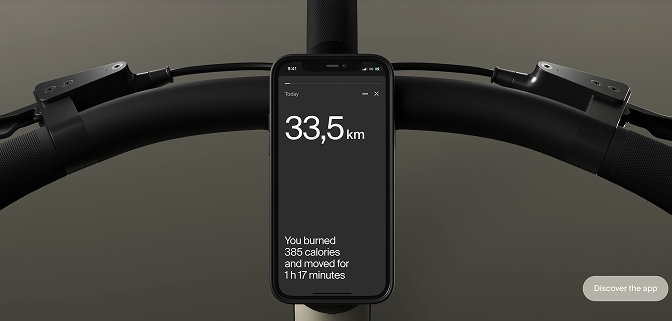
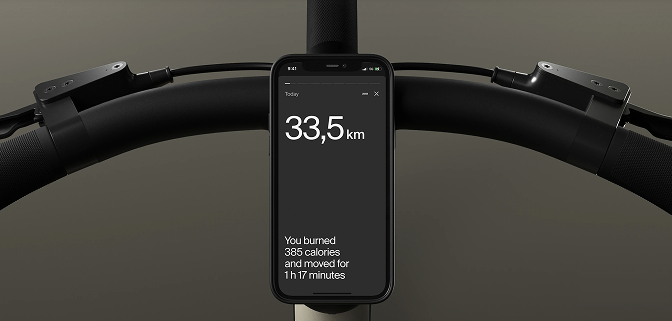
Fix suggested changes

Changed region(s): [[0.8438, 0.8411, 1.0, 0.9346]]

diff --git a/src/styles/blocks/icon.scss b/src/styles/blocks/icon.scss
@@ -4,12 +4,29 @@
   width: 24px;
   background-image: url('../images/icons/icon-burger-menu.svg');
   background-size: cover;
+  text-decoration: none;
 
   @include hover(transform, scale(1.2));
 
   @include on-tablet {
     width: 32px;
     height: 32px;
+  }
+
+  &__number {
+    text-decoration: none;
+    color: #FFF;
+    transform: translate(12px, 4px);
+    opacity: 0;
+    visibility: hidden;
+    pointer-events: none;
+    transition: all 0.3s;
+
+    &.is-visible {
+      opacity: 1;
+      visibility: visible;
+      pointer-events: auto;
+    }
   }
 
   &--phone {

diff --git a/src/scripts/main.js b/src/scripts/main.js
@@ -1,1 +1,13 @@
 'use strict';
+
+const phoneIcon = document.querySelector('.icon--phone');
+const number = document.querySelector('.icon__number');
+const topBar = document.querySelector('.top-bar');
+
+phoneIcon.addEventListener('mouseenter', () => {
+  number.classList.add('is-visible');
+});
+
+topBar.addEventListener('mouseleave', () => {
+  number.classList.remove('is-visible');
+});

diff --git a/src/styles/blocks/contacts.scss b/src/styles/blocks/contacts.scss
@@ -31,6 +31,10 @@
     font-size: 14px;
     line-height: 20px;
 
+    &:focus {
+      outline: none; /* Прибирає рамку при фокусі */
+    }
+
     &--huge {
       height: 148px;
       border-radius: 16px;
@@ -112,6 +116,11 @@
   }
 
   &__address {
+    text-decoration: none;
+    color: #fff;
+  }
+
+  &__info {
     text-decoration: none;
     color: #fff;
   }

diff --git a/src/styles/blocks/details.scss b/src/styles/blocks/details.scss
@@ -48,7 +48,7 @@
     transition: transform 0.3s;
 
     &:hover {
-      transform: scale(1.08);
+      transform: scale(1.05);
     }
   }
   &__title {
